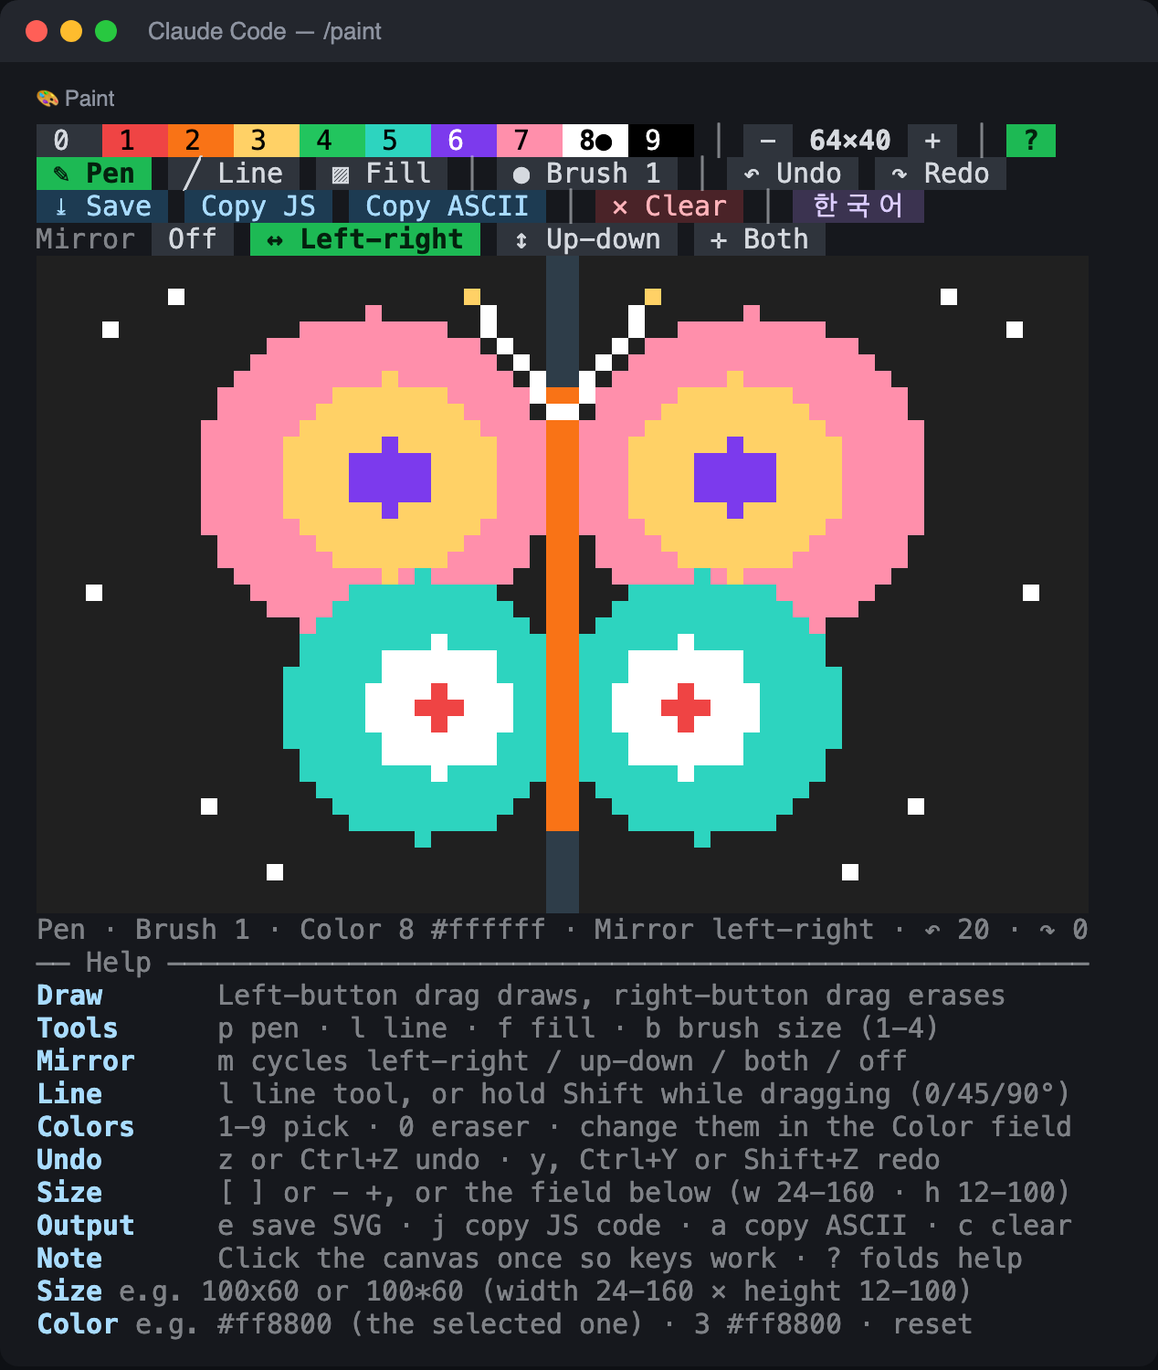
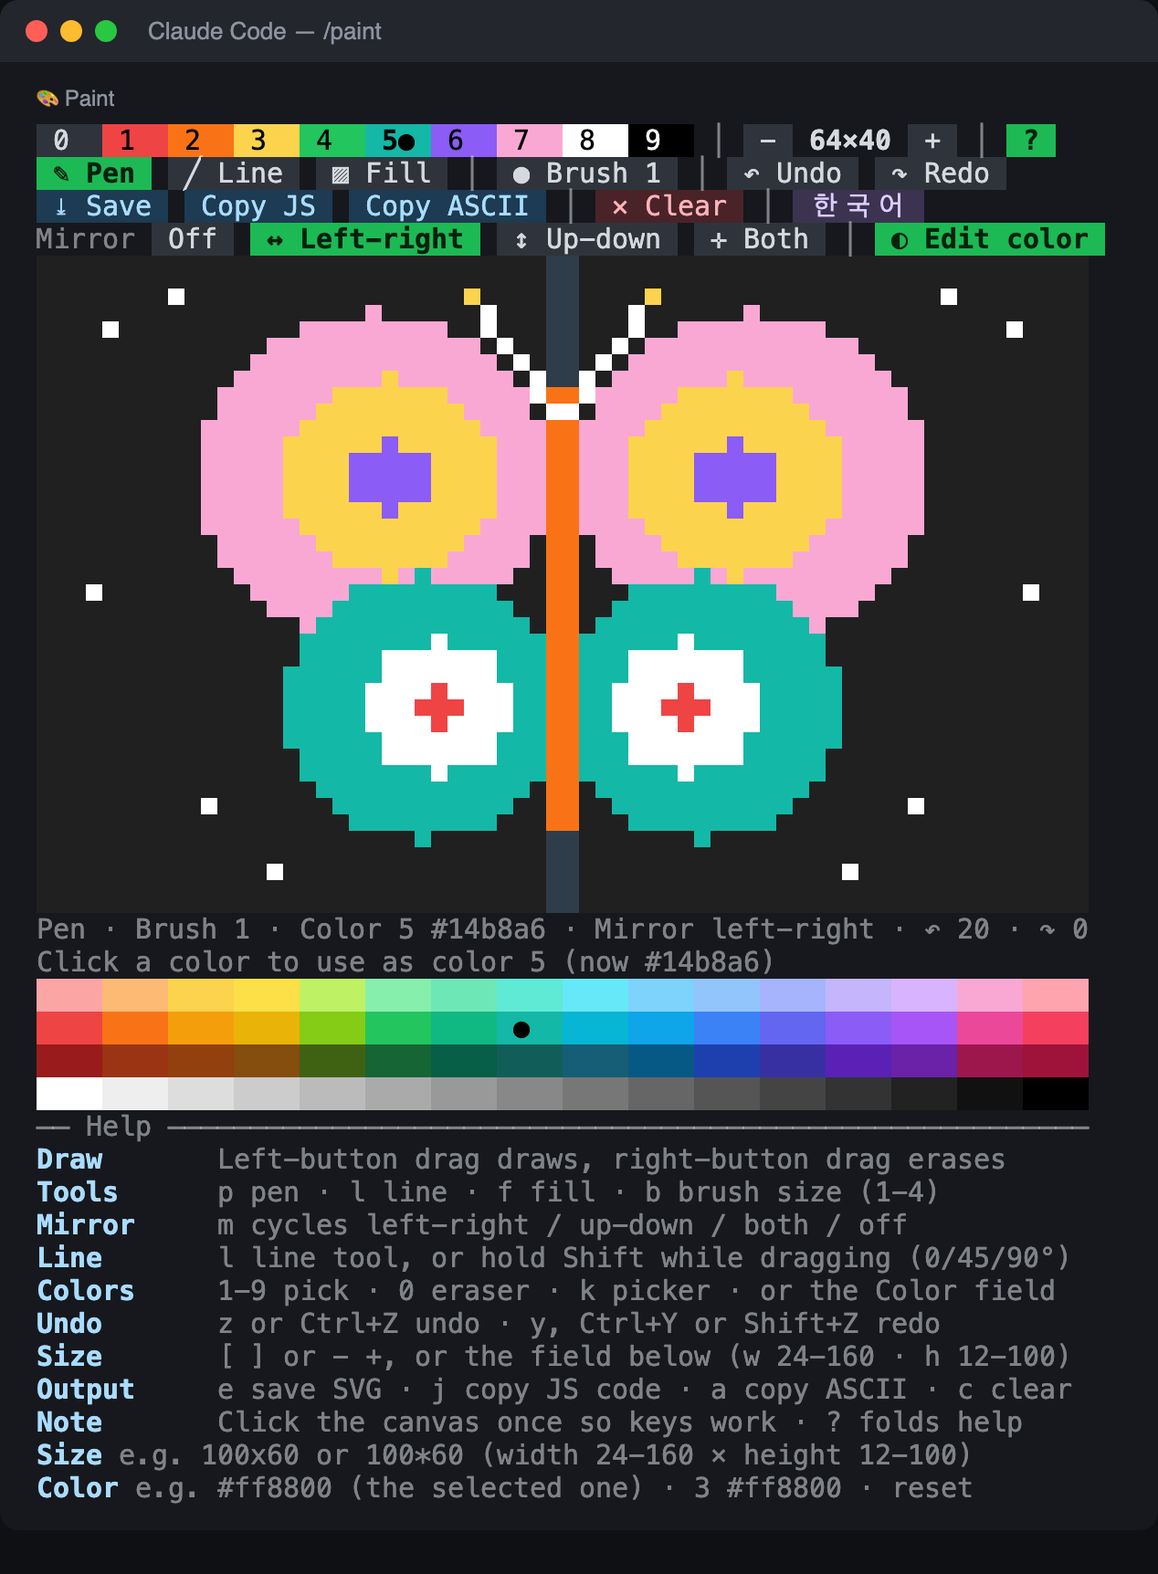
Add a color picker for custom colors
A block of 64 colors (16 hues in a light, a medium and a dark shade, and a
gray ramp) opens under the canvas with the Edit color chip, k, or a second
click on the chosen swatch. Clicking one sets the chosen swatch's color.
The heading says which swatch changes and its current color, and a dot
marks it when it is one of the 64. The hooks module validates the swatch
number and the #rrggbb it is sent before changing the palette.

diff --git a/hooks/canvas.ts b/hooks/canvas.ts
@@ -8,7 +8,7 @@
 import type { ClientPointerEvent } from 'claude-code'
 
 type Lang = 'ko' | 'en'
-type Props = { w?: number; ph?: number; note?: string; lang?: Lang; help?: boolean; palette?: unknown }
+type Props = { w?: number; ph?: number; note?: string; lang?: Lang; help?: boolean; picker?: boolean; palette?: unknown }
 type Tool = 'pen' | 'line' | 'fill'
 type Mirror = 'off' | 'lr' | 'ud' | 'both' // lr: left-right, ud: up-down
 type Store = {
@@ -28,11 +28,26 @@ type Store = {
   noteFrom: string
   lang: Lang
   help: boolean // the help block under the canvas is shown
+  picker: boolean // the color picker under the canvas is shown
   mirror: Mirror // strokes, lines and fills are repeated across the middle
   palette: string[] // the ten colors, from the hooks module's props; index 0 is the eraser
 }
 
 const PALETTE = ['', '#ef4444', '#f97316', '#facc15', '#22c55e', '#38bdf8', '#8b5cf6', '#ec4899', '#ffffff', '#000000']
+const PICKER_ROWS = 5 // the picker: a heading and four rows of colors; the hooks module sizes the region by this
+const PICKER_COLS = 16
+const PICKER_CELL = 4 // columns per color in the picker
+
+// The colors the picker offers: sixteen hues in a light, a medium and a dark shade, then sixteen grays (white to black).
+const HUES: [string, string, string][] = [
+  ['#fca5a5', '#ef4444', '#991b1b'], ['#fdba74', '#f97316', '#9a3412'], ['#fcd34d', '#f59e0b', '#92400e'], ['#fde047', '#eab308', '#854d0e'],
+  ['#bef264', '#84cc16', '#3f6212'], ['#86efac', '#22c55e', '#166534'], ['#6ee7b7', '#10b981', '#065f46'], ['#5eead4', '#14b8a6', '#115e59'],
+  ['#67e8f9', '#06b6d4', '#155e75'], ['#7dd3fc', '#0ea5e9', '#075985'], ['#93c5fd', '#3b82f6', '#1e40af'], ['#a5b4fc', '#6366f1', '#3730a3'],
+  ['#c4b5fd', '#8b5cf6', '#5b21b6'], ['#d8b4fe', '#a855f7', '#6b21a8'], ['#f9a8d4', '#ec4899', '#9d174d'], ['#fda4af', '#f43f5e', '#9f1239'],
+]
+const GRAYS = Array.from({ length: PICKER_COLS }, (_, i) => '#' + Math.round(255 * (1 - i / (PICKER_COLS - 1))).toString(16).padStart(2, '0').repeat(3))
+const PICKER_COLORS: string[][] = [HUES.map(h => h[0]), HUES.map(h => h[1]), HUES.map(h => h[2]), GRAYS]
+
 /** The palette from props when it is ten colors (index 0 empty, 1-9 as #rrggbb); the default one otherwise. */
 function validPalette(p: unknown): string[] {
   if (!Array.isArray(p) || p.length !== 10) return [...PALETTE]
@@ -93,13 +108,16 @@ const TEXT = {
       ['도구', 'p 펜 · l 직선 · f 채우기 · b 굵기 바꾸기 (1-4)'],
       ['대칭', 'm 키로 좌우 · 상하 · 4방향 · 끔 (반대쪽에도 찍혀요)'],
       ['직선', 'l 직선 도구, 또는 Shift 누르고 드래그 (가로·세로·45°)'],
-      ['색', '1-9 색 고르기 · 0 지우개 · 색 바꾸기는 아래 입력칸'],
+      ['색', '1-9 색 · 0 지우개 · k 팔레트로 색 바꾸기 · 아래 입력칸'],
       ['되돌리기', 'z 또는 Ctrl+Z 되돌리기 · y, Ctrl+Y, Shift+Z 다시'],
       ['크기', `[ ] 또는 − + 칩, 아래 입력칸 (가로 ${LIMITS.minW}-${LIMITS.maxW}, 세로 ${LIMITS.minPh}-${LIMITS.maxPh})`],
       ['내보내기', 'e SVG 저장 · j JS 코드 복사 · a ASCII 복사 · c 지우기'],
       ['참고', '키는 캔버스를 한 번 클릭해야 먹어요 · ? 로 접기'],
     ],
     tools: { pen: '펜', line: '직선', fill: '채우기' },
+    pickerChip: ' ◐ 색 편집 ',
+    pickerHead: (n: number, hex: string) => `색 ${n} 을(를) 바꿔요 · 아래에서 고르세요 (지금 ${hex})`,
+    pickerEraser: '먼저 1-9번 색을 고르세요 (0은 지우개라 바꿀 수 없어요)',
     mirrorLabel: '대칭', mirrorChips: { off: ' 끔 ', lr: ' ↔ 좌우 ', ud: ' ↕ 상하 ', both: ' ✛ 4방향 ' },
     mirrorName: { off: '끔', lr: '좌우', ud: '상하', both: '4방향' },
     status: (tool: string, brush: number, color: string, undo: number, redo: number, mirror: string) => `${tool} · 굵기 ${brush} · 색 ${color}${mirror ? ` · 대칭 ${mirror}` : ''} · ↶ ${undo} · ↷ ${redo}`,
@@ -114,13 +132,16 @@ const TEXT = {
       ['Tools', 'p pen · l line · f fill · b brush size (1-4)'],
       ['Mirror', 'm cycles left-right / up-down / both / off'],
       ['Line', 'l line tool, or hold Shift while dragging (0/45/90°)'],
-      ['Colors', '1-9 pick · 0 eraser · change them in the Color field'],
+      ['Colors', '1-9 pick · 0 eraser · k picker · or the Color field'],
       ['Undo', 'z or Ctrl+Z undo · y, Ctrl+Y or Shift+Z redo'],
       ['Size', `[ ] or − +, or the field below (w ${LIMITS.minW}-${LIMITS.maxW} · h ${LIMITS.minPh}-${LIMITS.maxPh})`],
       ['Output', 'e save SVG · j copy JS code · a copy ASCII · c clear'],
       ['Note', 'Click the canvas once so keys work · ? folds help'],
     ],
     tools: { pen: 'Pen', line: 'Line', fill: 'Fill' },
+    pickerChip: ' ◐ Edit color ',
+    pickerHead: (n: number, hex: string) => `Click a color to use as color ${n} (now ${hex})`,
+    pickerEraser: 'Pick color 1-9 first (0 is the eraser and cannot change)',
     mirrorLabel: 'Mirror', mirrorChips: { off: ' Off ', lr: ' ↔ Left-right ', ud: ' ↕ Up-down ', both: ' ✛ Both ' },
     mirrorName: { off: 'off', lr: 'left-right', ud: 'up-down', both: 'both' },
     status: (tool: string, brush: number, color: string, undo: number, redo: number, mirror: string) => `${tool} · Brush ${brush} · Color ${color}${mirror ? ` · Mirror ${mirror}` : ''} · ↶ ${undo} · ↷ ${redo}`,
@@ -154,12 +175,13 @@ const rowFile = (s: Store): Chip[][] => [
   [{ id: 'lang', label: TEXT[s.lang].lang, kind: 'lang' }],
 ]
 
-// Row 3: the mirror modes, one of them lit; a dim word in front says what the row is.
+// Row 3: the mirror modes, one of them lit (a dim word in front says what the row is), and the color picker's switch.
 const rowMirror = (s: Store): Chip[][] => [
   [
     { id: 'label', label: TEXT[s.lang].mirrorLabel, kind: 'label' },
     ...(['off', 'lr', 'ud', 'both'] as const).map(m => ({ id: `mirror-${m}`, label: TEXT[s.lang].mirrorChips[m], kind: 'tool' as const, on: s.mirror === m })),
   ],
+  [{ id: 'picker', label: TEXT[s.lang].pickerChip, kind: 'tool', on: s.picker }],
 ]
 
 /** Where each chip of a row starts and ends (columns). */
@@ -289,7 +311,7 @@ export default function Paint(props: Props, surface: any) {
   const ph = even(clamp(Math.round(props?.ph ?? 32), LIMITS.minPh, LIMITS.maxPh))
 
   if (surface.state === undefined) {
-    const s: Store = { w, ph, grid: [], color: 1, tool: 'pen', brush: 1, undo: [], redo: [], last: null, start: null, base: null, erasing: false, note: '', noteFrom: '', lang: props?.lang === 'en' ? 'en' : 'ko', help: props?.help !== false, mirror: 'off', palette: validPalette(props?.palette) }
+    const s: Store = { w, ph, grid: [], color: 1, tool: 'pen', brush: 1, undo: [], redo: [], last: null, start: null, base: null, erasing: false, note: '', noteFrom: '', lang: props?.lang === 'en' ? 'en' : 'ko', help: props?.help !== false, picker: props?.picker === true, mirror: 'off', palette: validPalette(props?.palette) }
     reset(s, w, ph)
     let tick = 0
     // the state is a handle on the store the listeners below mutate; a new object asks for a redraw
@@ -329,6 +351,9 @@ export default function Paint(props: Props, surface: any) {
         s.mirror = s.mirror === 'off' ? 'lr' : s.mirror === 'lr' ? 'ud' : s.mirror === 'ud' ? 'both' : 'off'
       } else if (id.startsWith('mirror-')) {
         s.mirror = id.slice('mirror-'.length) as Mirror
+      } else if (id === 'picker') {
+        // the region's height depends on it, and that is the hooks module's to set
+        surface.post({ picker: !s.picker, w: s.w, ph: s.ph })
       } else if (id === 'help') {
         // the region's height depends on it, and that is the hooks module's to set
         surface.post({ help: !s.help, w: s.w, ph: s.ph })
@@ -356,7 +381,10 @@ export default function Paint(props: Props, surface: any) {
         if (e.y === 0) {
           const i = Math.floor(x / PALETTE_CHIP)
           const size = sizeSpans(s)
-          if (x >= 0 && x < SWATCHES_END) { choose(i); redraw() }
+          if (x >= 0 && x < SWATCHES_END) {
+            if (i === s.color && i !== 0) act('picker') // clicking the chosen swatch again edits it
+            else { choose(i); redraw() }
+          }
           else if (x >= size.smaller.from && x < size.smaller.to) act('smaller')
           else if (x >= size.bigger.from && x < size.bigger.to) act('bigger')
           else if (x >= size.help.from && x < size.help.to) act('help')
@@ -364,6 +392,14 @@ export default function Paint(props: Props, surface: any) {
           const hit = layout(e.y === 1 ? rowTools(s) : e.y === 2 ? rowFile(s) : rowMirror(s)).find(t => t.id !== 'label' && x >= t.from && x < t.to)
           if (hit) act(hit.id)
         }
+        return
+      }
+      // a click in the picker under the canvas: that color goes to the chosen swatch
+      const pickerTop = TOP + s.ph / 2 + 2 // the canvas, the status row, the picker's heading
+      if (s.picker && e.type === 'down' && e.button === 'left' && e.y >= pickerTop && e.y < pickerTop + PICKER_ROWS - 1) {
+        const col = Math.floor((e.fine?.x ?? e.x) / PICKER_CELL)
+        const hex = col >= 0 && col < PICKER_COLS ? PICKER_COLORS[e.y - pickerTop]?.[col] : undefined
+        if (hex && s.color !== 0) surface.post({ setColor: { index: s.color, hex }, w: s.w, ph: s.ph })
         return
       }
       if (e.button !== 'left' && e.button !== 'right') return
@@ -428,6 +464,7 @@ export default function Paint(props: Props, surface: any) {
       else if (k === 'j') act('js')
       else if (k === 'a') act('ascii')
       else if (k === '?' || k === 'h') act('help')
+      else if (k === 'k') act('picker')
       else if (k === '[') act('smaller')
       else if (k === ']') act('bigger')
     })
@@ -437,6 +474,7 @@ export default function Paint(props: Props, surface: any) {
   const s: Store = (surface.state as { store: Store }).store
   s.lang = props?.lang === 'en' ? 'en' : 'ko'
   s.help = props?.help !== false
+  s.picker = props?.picker === true
   s.palette = validPalette(props?.palette)
   if (s.w !== w || s.ph !== ph) reset(s, w, ph)
   if (props?.note && props.note !== s.noteFrom) {
@@ -521,6 +559,15 @@ function view(s: Store, surface: any) {
 
   // The help block: a heading rule, then a label column and its text, one line each.
   const LABEL = 11
+  // The picker: a line saying what a click does, then the colors, a mark on the one the chosen swatch has now.
+  const current = s.palette[s.color]
+  const pickerRows = !s.picker ? [] : [
+    Text({ dimColor: true, wrap: 'truncate-end', children: [s.color === 0 ? t.pickerEraser : t.pickerHead(s.color, current!)] }),
+    ...PICKER_COLORS.map((row: string[]) =>
+      Text({ children: row.map((hex: string) => Text({ backgroundColor: hex, color: textOn(hex), bold: true, children: [hex === current && s.color !== 0 ? ' ●  ' : '    '] })) }),
+    ),
+  ]
+
   const helpRows = !s.help ? [] : [
     Text({ dimColor: true, wrap: 'truncate-end', children: [`── ${t.helpTitle} `.padEnd(1) + '─'.repeat(Math.max(2, 64 - cols(`── ${t.helpTitle} `)))] }),
     ...t.help.map(([label, text]: readonly [string, string]) =>
@@ -533,6 +580,6 @@ function view(s: Store, surface: any) {
 
   return Box({
     flexDirection: 'column',
-    children: [palette, toolsRow, exportRow, mirrorRow, ...rows, Text({ dimColor: !s.note, bold: !!s.note, wrap: 'truncate-end', children: [status] }), ...helpRows],
+    children: [palette, toolsRow, exportRow, mirrorRow, ...rows, Text({ dimColor: !s.note, bold: !!s.note, wrap: 'truncate-end', children: [status] }), ...pickerRows, ...helpRows],
   })
 }

diff --git a/hooks/register.ts b/hooks/register.ts
@@ -78,9 +78,12 @@ export function stepSize(from: { w: number; ph: number }, dir: 1 | -1, maxW: num
 // Rows the help block under the canvas takes (canvas.ts draws exactly this many while it is open).
 export const HELP_ROWS = 10
 let helpOpen = true
+// Rows the color picker under the canvas takes (canvas.ts draws exactly this many while it is open).
+export const PICKER_ROWS = 5
+let pickerOpen = false
 
-// The pane's rows: the canvas, its 4 menu rows and status line, the size and color fields, and the help block when open.
-const paneRows = (ph: number) => ph / 2 + 9 + (helpOpen ? HELP_ROWS : 0)
+// The pane's rows: the canvas, its 4 menu rows and status line, the size and color fields, and the help block and color picker when open.
+const paneRows = (ph: number) => ph / 2 + 9 + (helpOpen ? HELP_ROWS : 0) + (pickerOpen ? PICKER_ROWS : 0)
 
 export type Lang = 'ko' | 'en'
 let lang: Lang = 'ko'
@@ -151,7 +154,7 @@ const MSG = {
   },
 } as const
 
-const props = (note?: string) => ({ w: size.w, ph: size.ph, lang, help: helpOpen, palette, ...(note ? { note } : {}) })
+const props = (note?: string) => ({ w: size.w, ph: size.ph, lang, help: helpOpen, picker: pickerOpen, palette, ...(note ? { note } : {}) })
 
 /** "en", "english", "영문" … → 'en'; "ko", "korean", "한국어" … → 'ko'; null for anything else. */
 export function parseLang(word: string): Lang | null {
@@ -320,7 +323,7 @@ export const register: Register = on => {
     return Box({
       flexDirection: 'column',
       children: [
-        Client({ key: 'canvas', module: './canvas.ts', props: props(), width: Math.max(size.w, MENU_WIDTH), height: size.ph / 2 + 5 + (helpOpen ? HELP_ROWS : 0) }),
+        Client({ key: 'canvas', module: './canvas.ts', props: props(), width: Math.max(size.w, MENU_WIDTH), height: size.ph / 2 + 5 + (helpOpen ? HELP_ROWS : 0) + (pickerOpen ? PICKER_ROWS : 0) }),
         Input({
           key: 'size',
           label: MSG[lang].sizeLabel,
@@ -351,7 +354,7 @@ export const register: Register = on => {
   })
 
   on('ui.message', async ($, e) => {
-    const data = e.data as { save?: unknown; export?: unknown; grid?: unknown; resize?: unknown; lang?: unknown; help?: unknown; select?: unknown; w?: unknown; ph?: unknown } | null
+    const data = e.data as { save?: unknown; export?: unknown; grid?: unknown; resize?: unknown; lang?: unknown; help?: unknown; picker?: unknown; setColor?: unknown; select?: unknown; w?: unknown; ph?: unknown } | null
     if (e.element !== 'canvas' || !data || typeof data !== 'object') return {}
     // posted by code on the surface: check it is the canvas we drew before acting on it
     if (data.w !== size.w || data.ph !== size.ph) return {}
@@ -360,6 +363,23 @@ export const register: Register = on => {
     if (typeof data.select === 'number' && Number.isInteger(data.select) && data.select >= 0 && data.select <= 9) {
       selected = data.select // which swatch a bare color entry changes
       return {}
+    }
+
+    if (typeof data.picker === 'boolean') {
+      pickerOpen = data.picker
+      await applySize($, size) // the pane and the region change height
+      return { props: props() }
+    }
+
+    if (data.setColor && typeof data.setColor === 'object') {
+      // a click in the picker: posted by code on the surface, so check it names a real swatch and a real color
+      const { index, hex } = data.setColor as { index?: unknown; hex?: unknown }
+      if (typeof index !== 'number' || !Number.isInteger(index) || index < 1 || index > 9 || typeof hex !== 'string') return {}
+      const color = parseColor(hex)
+      if (!color || !/^#[0-9a-f]{6}$/i.test(hex)) return {}
+      palette = applyColorEdit(palette, { kind: 'set', index, hex: color })
+      selected = index
+      return { props: props(t.colorSet(index, color)) }
     }
 
     if (typeof data.help === 'boolean') {

diff --git a/README.md b/README.md
@@ -5,16 +5,16 @@ A paint canvas that lives in a [Claude Code](https://claude.com/claude-code) pan
 - Drag to draw (left button), drag with the right button to erase
 - Palette of 9 colors plus an eraser, brush sizes 1-4, flood fill, straight lines
 - **Mirror mode**: draw one half and the other half follows (left-right, up-down, or both)
-- **Custom colors**: change any of the nine palette colors to any `#rrggbb` (a field under the canvas, or `/paint color 3 #ff8800`)
+- **Custom colors**: change any of the nine palette colors, by clicking in a picker of 64 colors or by typing any `#rrggbb` (a field under the canvas, or `/paint color 3 #ff8800`)
 - Undo / redo (20 steps), resizable canvas, English and Korean
 - Save as SVG, or copy the drawing as a JS/TS array or as ASCII art
 - A help block with all the shortcuts sits under the canvas (fold it with `?`); the status line shows the tool, brush, color, undo depth and mirror mode
 
 <p align="center">
-  <img src="docs/preview.png" alt="The paint pane in left-right mirror mode with a customized palette: a symmetric pixel-art butterfly drawn on the left half only, the Mirror menu row, the status line, the help block and the Size and Color fields" width="560">
+  <img src="docs/preview.png" alt="The paint pane in left-right mirror mode with a customized palette: a symmetric pixel-art butterfly drawn on the left half only, the Mirror menu row, the status line, the open color picker, the help block and the Size and Color fields" width="560">
 </p>
 
-<p align="center"><sub><b>Preview, not a terminal capture:</b> rendered from the mod's own drawing code, with the butterfly drawn through its mouse handlers on the left half only (mirror mode on), using a customized palette. Fonts and colors will differ in your terminal.</sub></p>
+<p align="center"><sub><b>Preview, not a terminal capture:</b> rendered from the mod's own drawing code, with the butterfly drawn through its mouse handlers on the left half only (mirror mode on), using a customized palette, with the color picker open under the canvas. Fonts and colors will differ in your terminal.</sub></p>
 
 > **Status: early (0.9).** It was built against Claude Code's mod API and tested with a simulated engine and the API's type definitions. How mouse drags, `Shift` and `Ctrl+Z` reach it depends on your terminal (see [Terminals](#terminals)). Issues and reports of what works where are welcome.
 
@@ -33,7 +33,7 @@ A paint canvas that lives in a [Claude Code](https://claude.com/claude-code) pan
 | | |
 |---|---|
 | Draw / erase | drag with the left / right mouse button |
-| Colors | `1`-`9`, `0` is the eraser (or click the swatches). Change a color: see [Custom colors](#custom-colors) |
+| Colors | `1`-`9`, `0` is the eraser (or click the swatches). Change a color: `k` opens the color picker, see [Custom colors](#custom-colors) |
 | Tools | `p` pen, `l` line, `f` fill, `b` brush size (1-4) |
 | Mirror | `m` cycles off → left-right → up-down → both → off, or click the chips on the fourth menu row |
 | Straight line | the `Line` tool (`l`), or hold `Shift` while dragging (snaps to 0 / 45 / 90°) |
@@ -49,7 +49,11 @@ The last JS/ASCII export can be printed in the chat with `/paint export`. If the
 
 ### Custom colors
 
-Each of the nine palette colors can be set to any color you like. Pick a swatch (click it, or press its number) and type a color in the **Color** field under the canvas, or use the command:
+Each of the nine palette colors can be set to any color you like.
+
+**Pick from a palette.** Choose a swatch (click it, or press its number), then open the color picker with the `◐ Edit color` chip on the fourth menu row, with `k`, or by clicking the chosen swatch once more. A block of 64 colors opens under the canvas: sixteen hues in a light, a medium and a dark shade, then sixteen grays from white to black. Click one and it becomes the chosen swatch's color. The picker's first line says which swatch you are changing and what color it has now, and a dot marks that color if it is one of the 64. The eraser (`0`) cannot change, so the picker asks you to choose a swatch from 1-9 first. Close it with the same chip or `k`.
+
+**Or type a color.** Enter it in the **Color** field under the canvas, or use the command:
 
 | Enter | Meaning |
 |---|---|
@@ -64,6 +68,7 @@ Things to know:
 
 - The picture stores *which swatch* each pixel uses, so changing a swatch recolors every pixel already drawn with it (like an indexed palette).
 - The eraser (`0`) has no color and cannot be changed. A bare `#ff8800` with the eraser selected is refused; give a number instead (`3 #ff8800`).
+- The picker and the field work on the same colors: a color you picked can be changed again by typing, and the other way round.
 - The swatch labels switch between black and white text, whichever reads better on the color. The status line shows the selected color's code (`Color 3 #facc15`).
 - The SVG, the JS code (`PALETTE`) and the ASCII brightness all use your colors. In the JS export's comment a changed color is named by its hex code instead of its name (`B #2dd4bf`), and the letters (`R O Y G B P M W K`) stay tied to the swatch numbers.
 - Custom colors last for the session: they are not saved to a file, so a new Claude Code session starts with the defaults.
@@ -133,7 +138,9 @@ From the mod API's own report of what the code calls: it reads the `HOME` enviro
   - 모드는 `좌우`, `상하`, `4방향`이에요. `m` 을 누를 때마다 좌우 → 상하 → 4방향 → 끔 순서로 바뀌어요.
   - 펜, 직선 도구(Shift 직선과 미리보기 포함), 오른쪽 버튼 지우개, 채우기(반대쪽 영역도 함께 채워요), 모든 굵기가 대칭으로 동작해요.
   - 켜 있는 동안 가운데 줄(축)의 빈 픽셀이 조금 밝게 보이고, 상태 줄에 `대칭 좌우` 같은 표시가 나와요. 한 번 되돌리기로 대칭 획 전체가 사라져요. 대칭 설정은 되돌리기 대상이 아니에요.
-- 색 지정: 팔레트 9색을 원하는 색(`#rrggbb`)으로 바꿀 수 있어요. 색을 고른 뒤 캔버스 아래 **색** 입력칸에 입력하거나 `/paint color 3 #ff8800` 명령을 쓰세요.
+- 색 지정: 팔레트 9색을 원하는 색으로 바꿀 수 있어요.
+  - **팔레트에서 고르기**: 색 견본을 고른 뒤(클릭하거나 숫자 키) 네 번째 메뉴 줄의 `◐ 색 편집` 칩, `k` 키, 또는 이미 고른 견본을 한 번 더 클릭하면 캔버스 아래에 64색 선택 팔레트가 열려요. 16가지 색상의 밝은색·보통·진한색 세 줄과 흰색에서 검정까지 회색 한 줄이에요. 누르면 바로 그 견본의 색이 돼요. 맨 윗줄에 어느 견본을 바꾸는 중인지와 현재 색이 나오고, 현재 색이 64색 중 하나면 ● 표시가 붙어요. 지우개(0)는 바꿀 수 없어서 1-9번을 먼저 고르라고 안내해요.
+  - **직접 입력하기**: 캔버스 아래 **색** 입력칸에 입력하거나 `/paint color 3 #ff8800` 명령을 쓰세요.
   - `#ff8800` 은 고른 색, `3 #ff8800` 은 3번 색을 바꿔요. `#f80`, `ff8800`, `rgb(255,136,0)` 도 돼요.
   - `reset` 은 모든 색을, `reset 3` 은 3번 색만 기본값으로 되돌려요. `/paint color` 는 현재 색 목록을 보여 줘요.
   - 그림은 "어떤 번호의 색인지"를 기억해서, 색을 바꾸면 이미 그린 픽셀도 새 색으로 바뀌어요. 지우개(0)는 바꿀 수 없어요.
